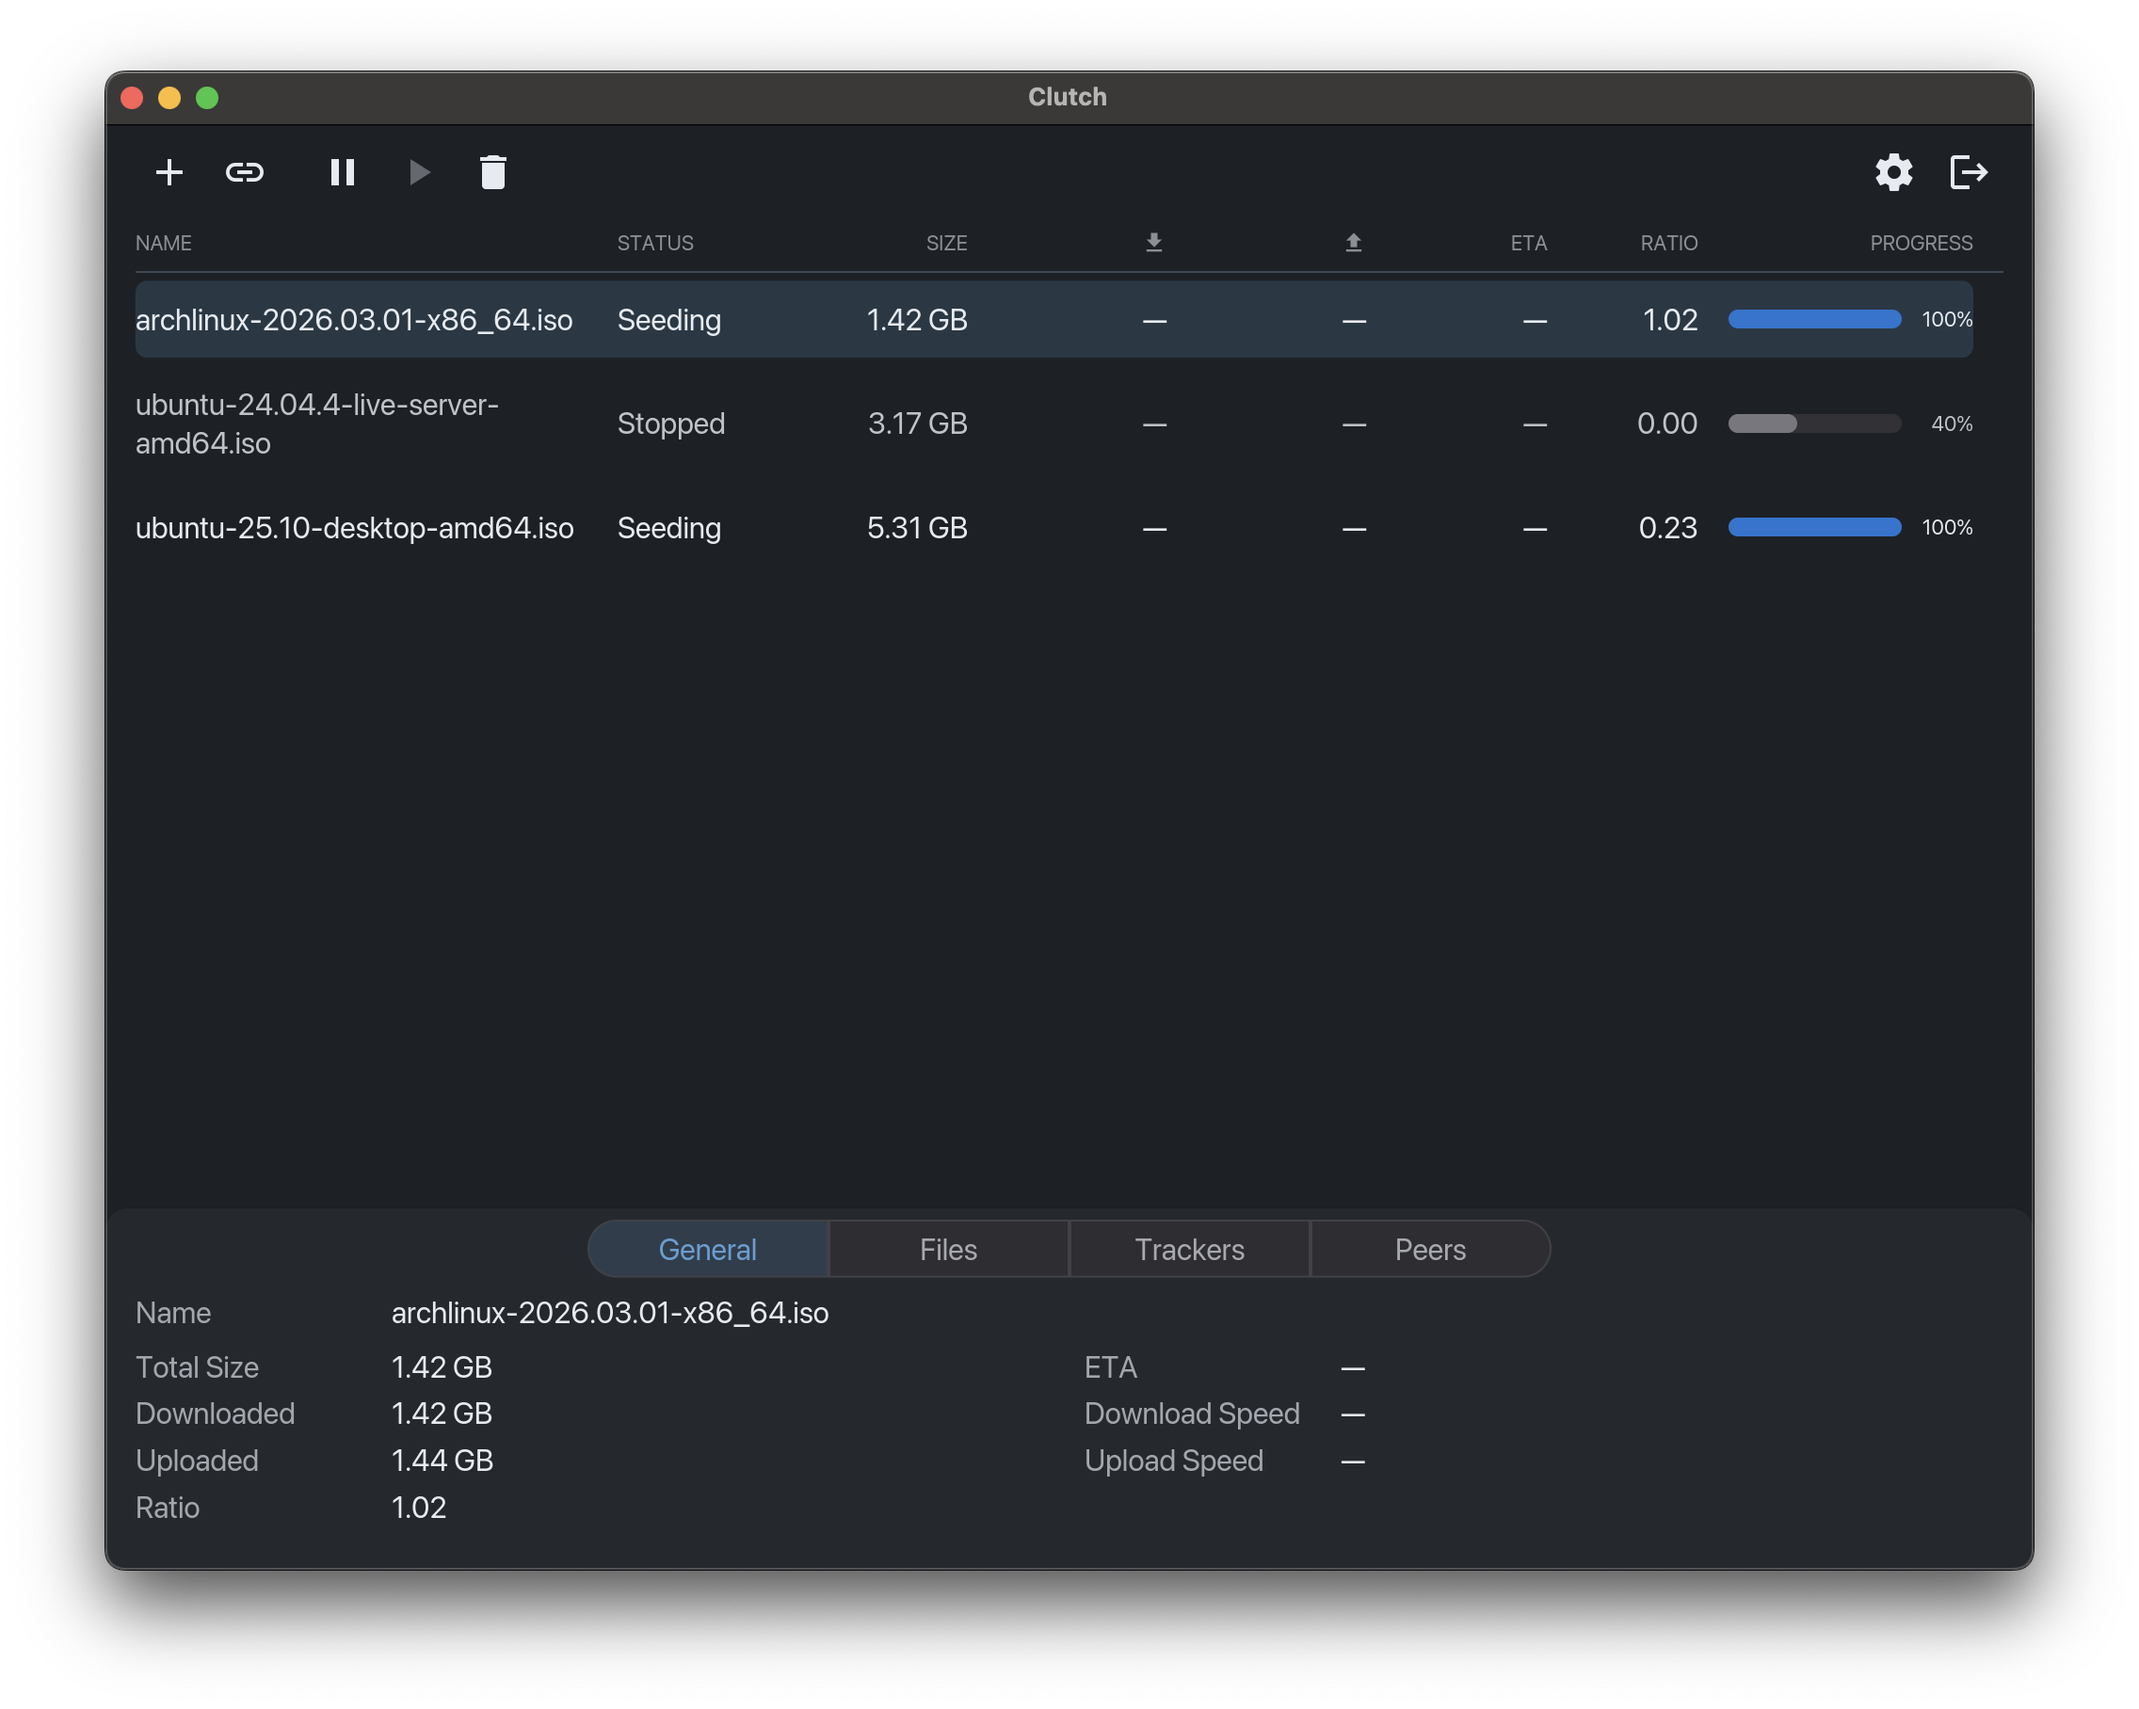
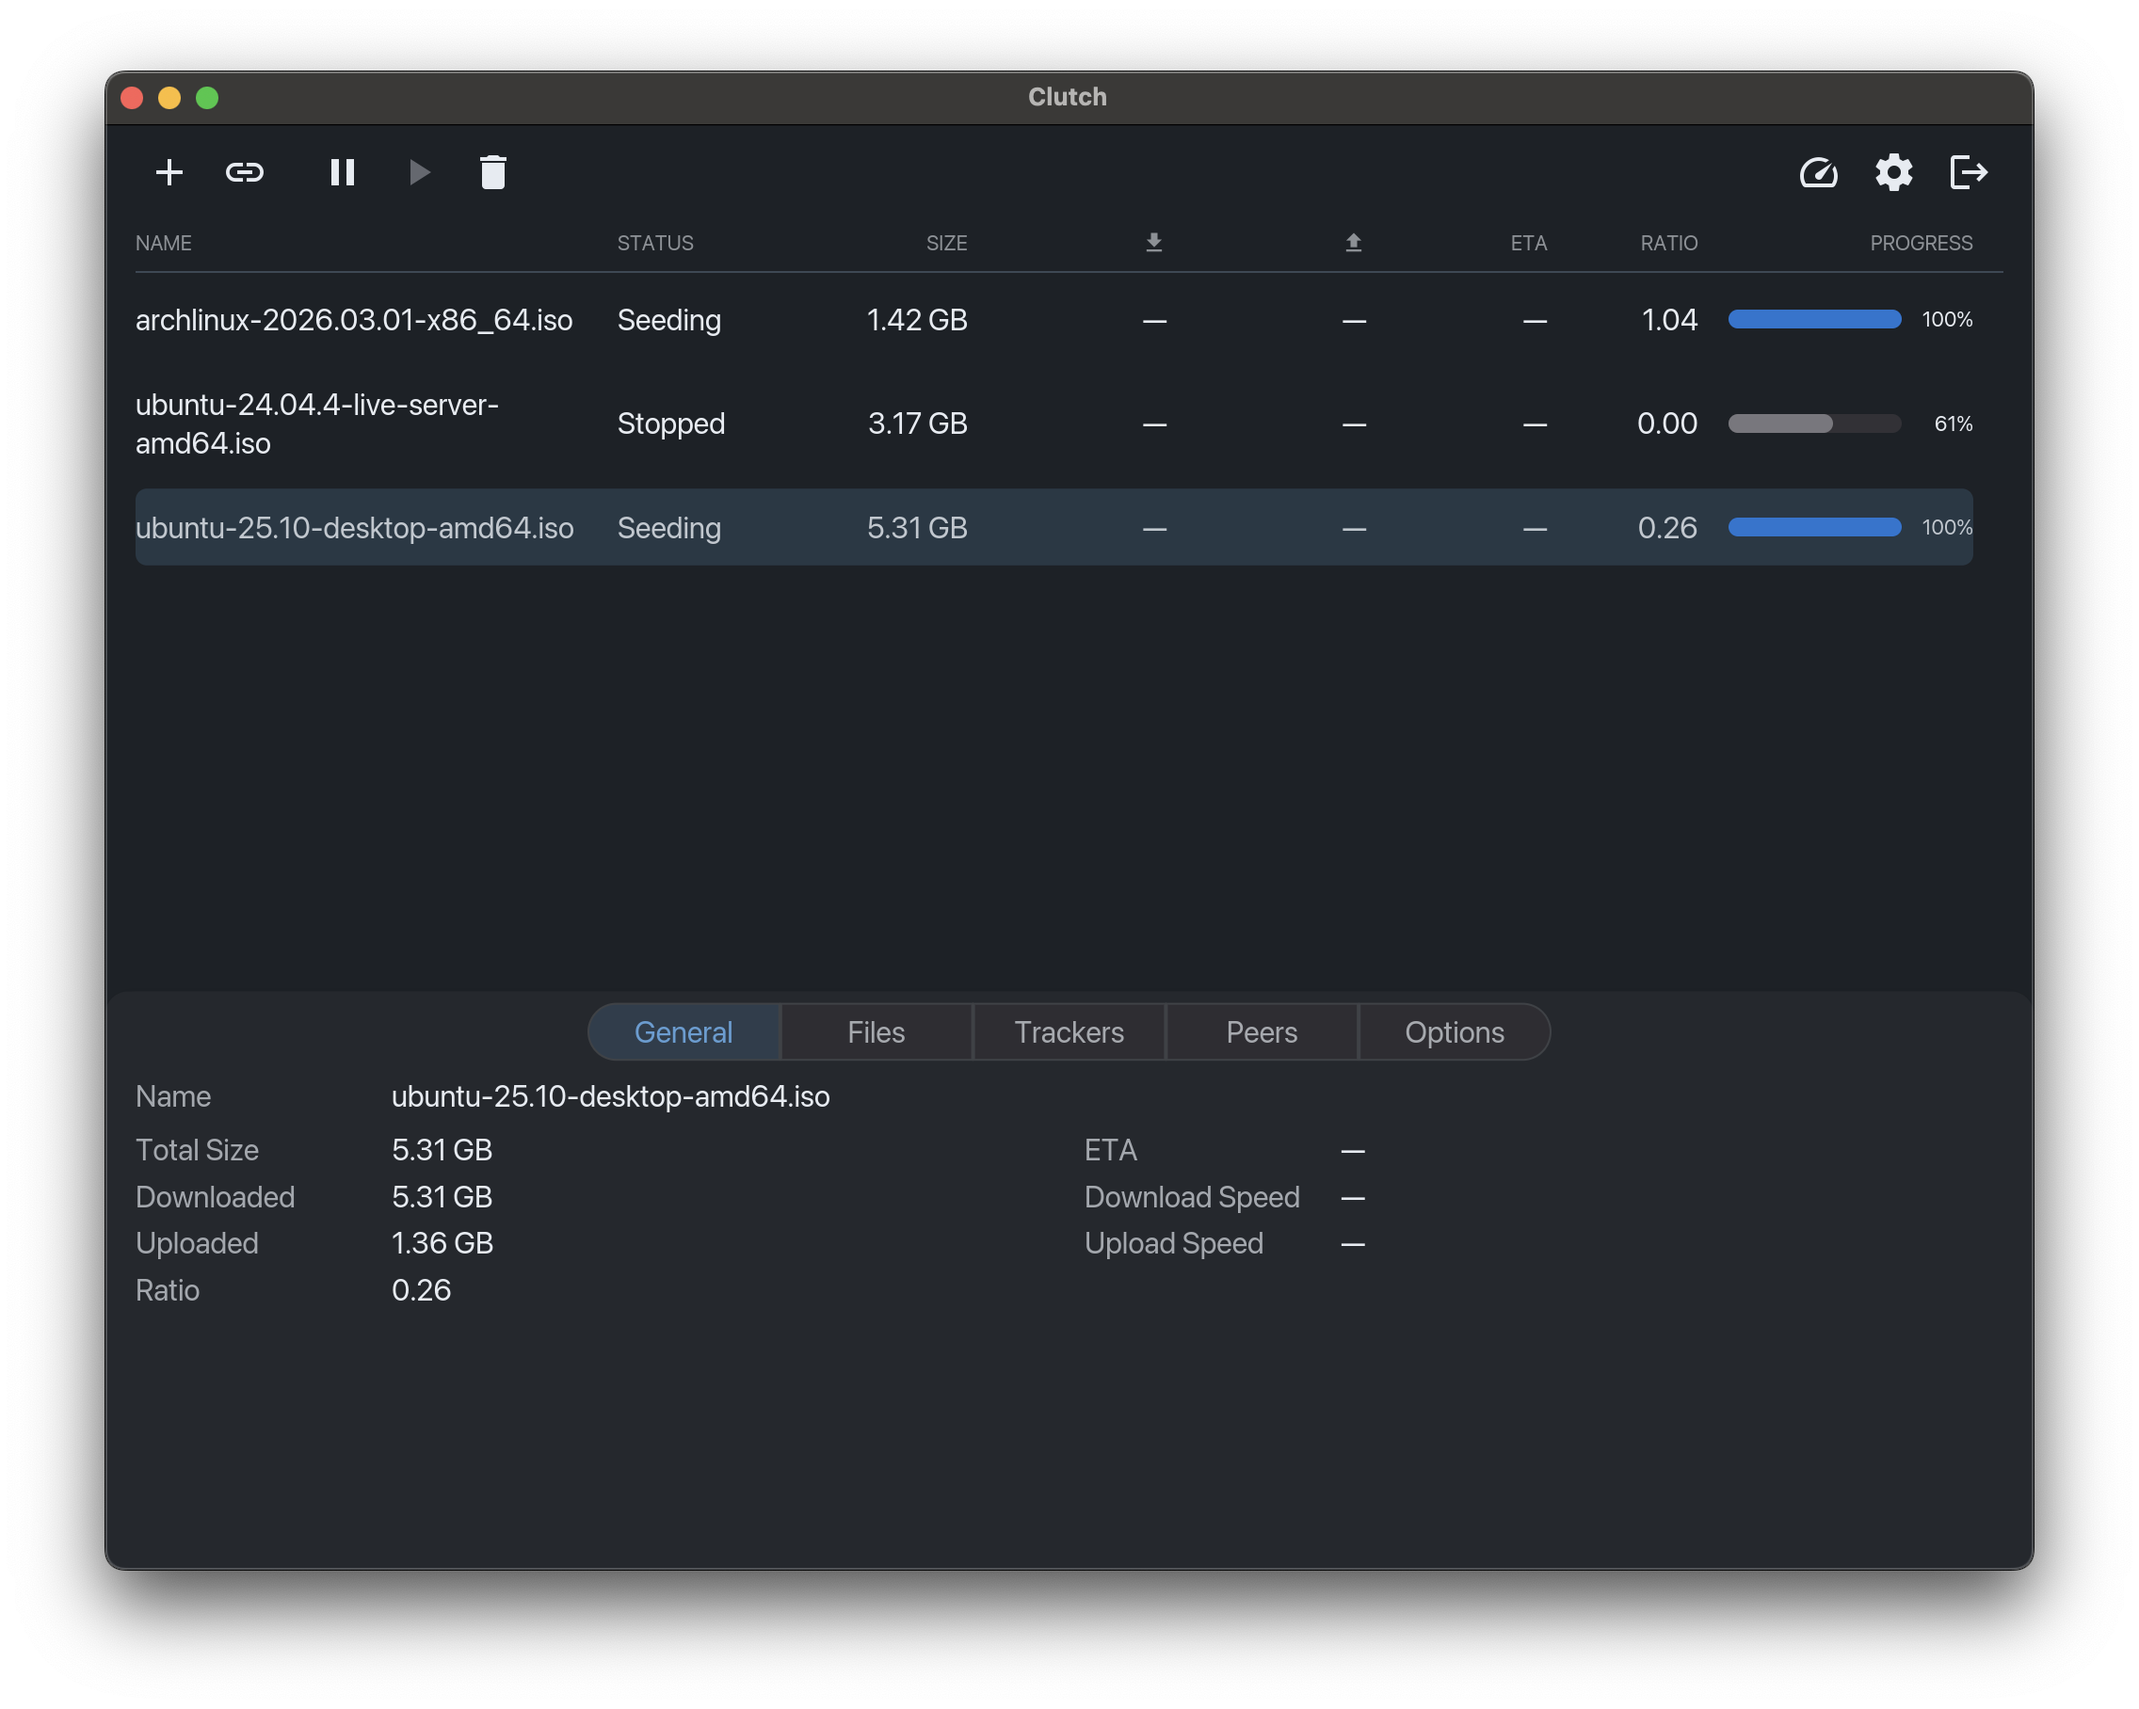
chore: release v0.11.0

diff --git a/README.md b/README.md
@@ -27,6 +27,9 @@ API.
 - **Multiple connection profiles** — save and switch between Transmission instances
 - **Credential encryption** — passwords are encrypted at rest using Argon2id + ChaCha20-Poly1305
 - **Theme** — light, dark, and system-follow modes (Material Design 3)
+- **Selective download** — pick and choose which files in a torrent to download
+- **Configurable bandwidth limits** — global alternative speed limits (Turtle Mode) and per-torrent
+  limits for download/upload speed and seeding ratio
 - **Cross-platform** — macOS, Linux, and Windows (no GTK, no web views, pure Rust)
 
 ## Why

diff --git a/CHANGELOG.md b/CHANGELOG.md
@@ -7,6 +7,8 @@ and this project adheres to [Semantic Versioning](https://semver.org/spec/v2.0.0
 
 ## [Unreleased]
 
+## [v0.11.0] - 2026-04-06
+
 ### Added
 
 - Turtle Mode: toolbar speed-icon toggle button highlights blue when Transmission's
